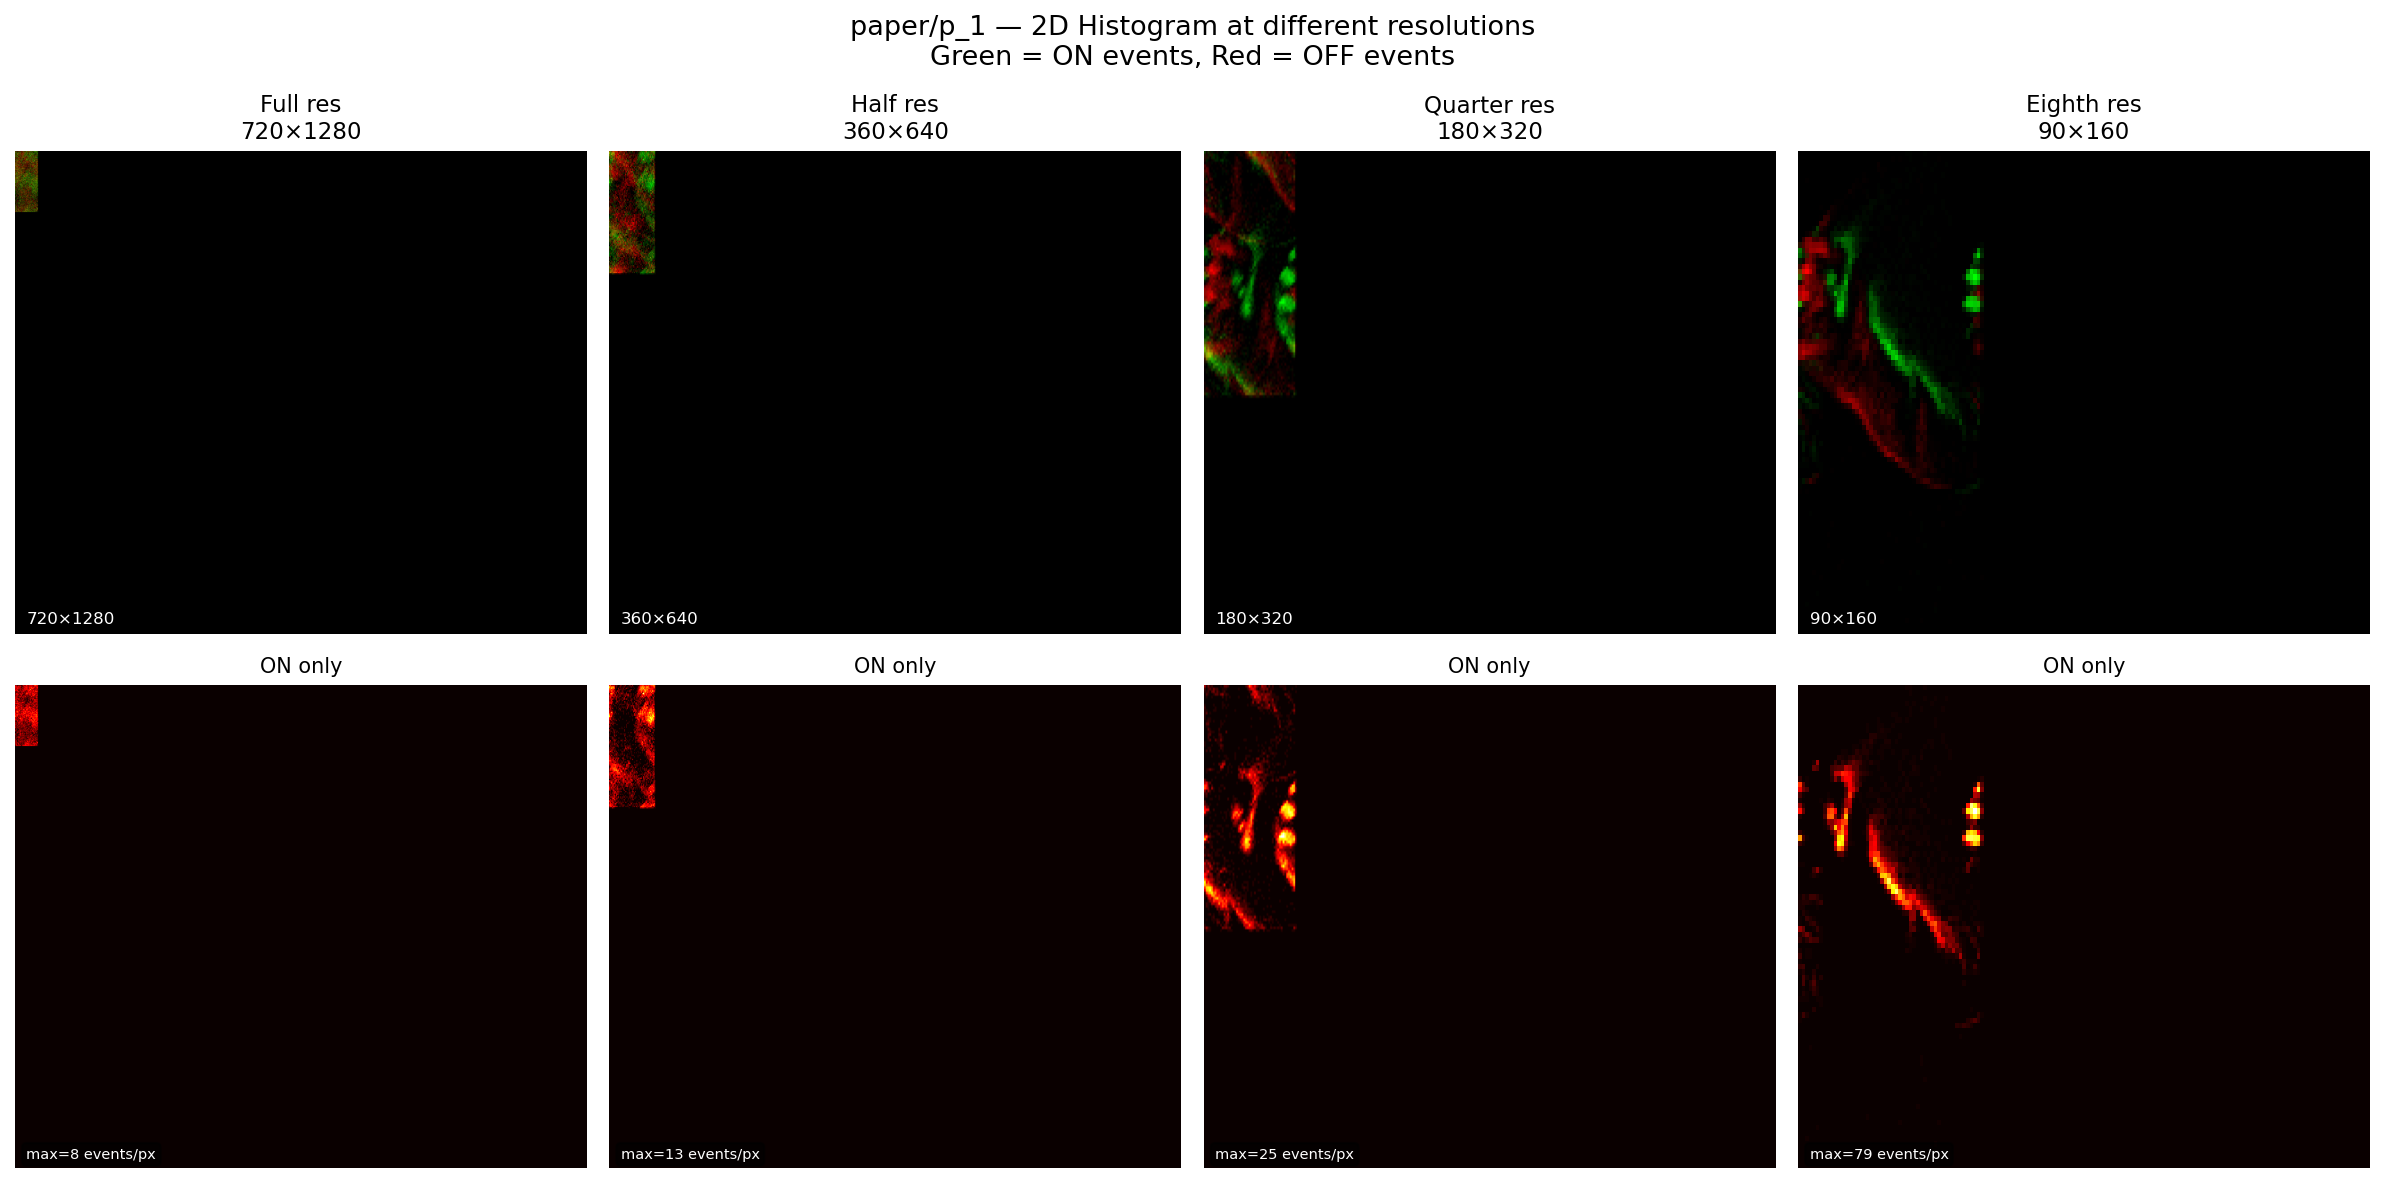
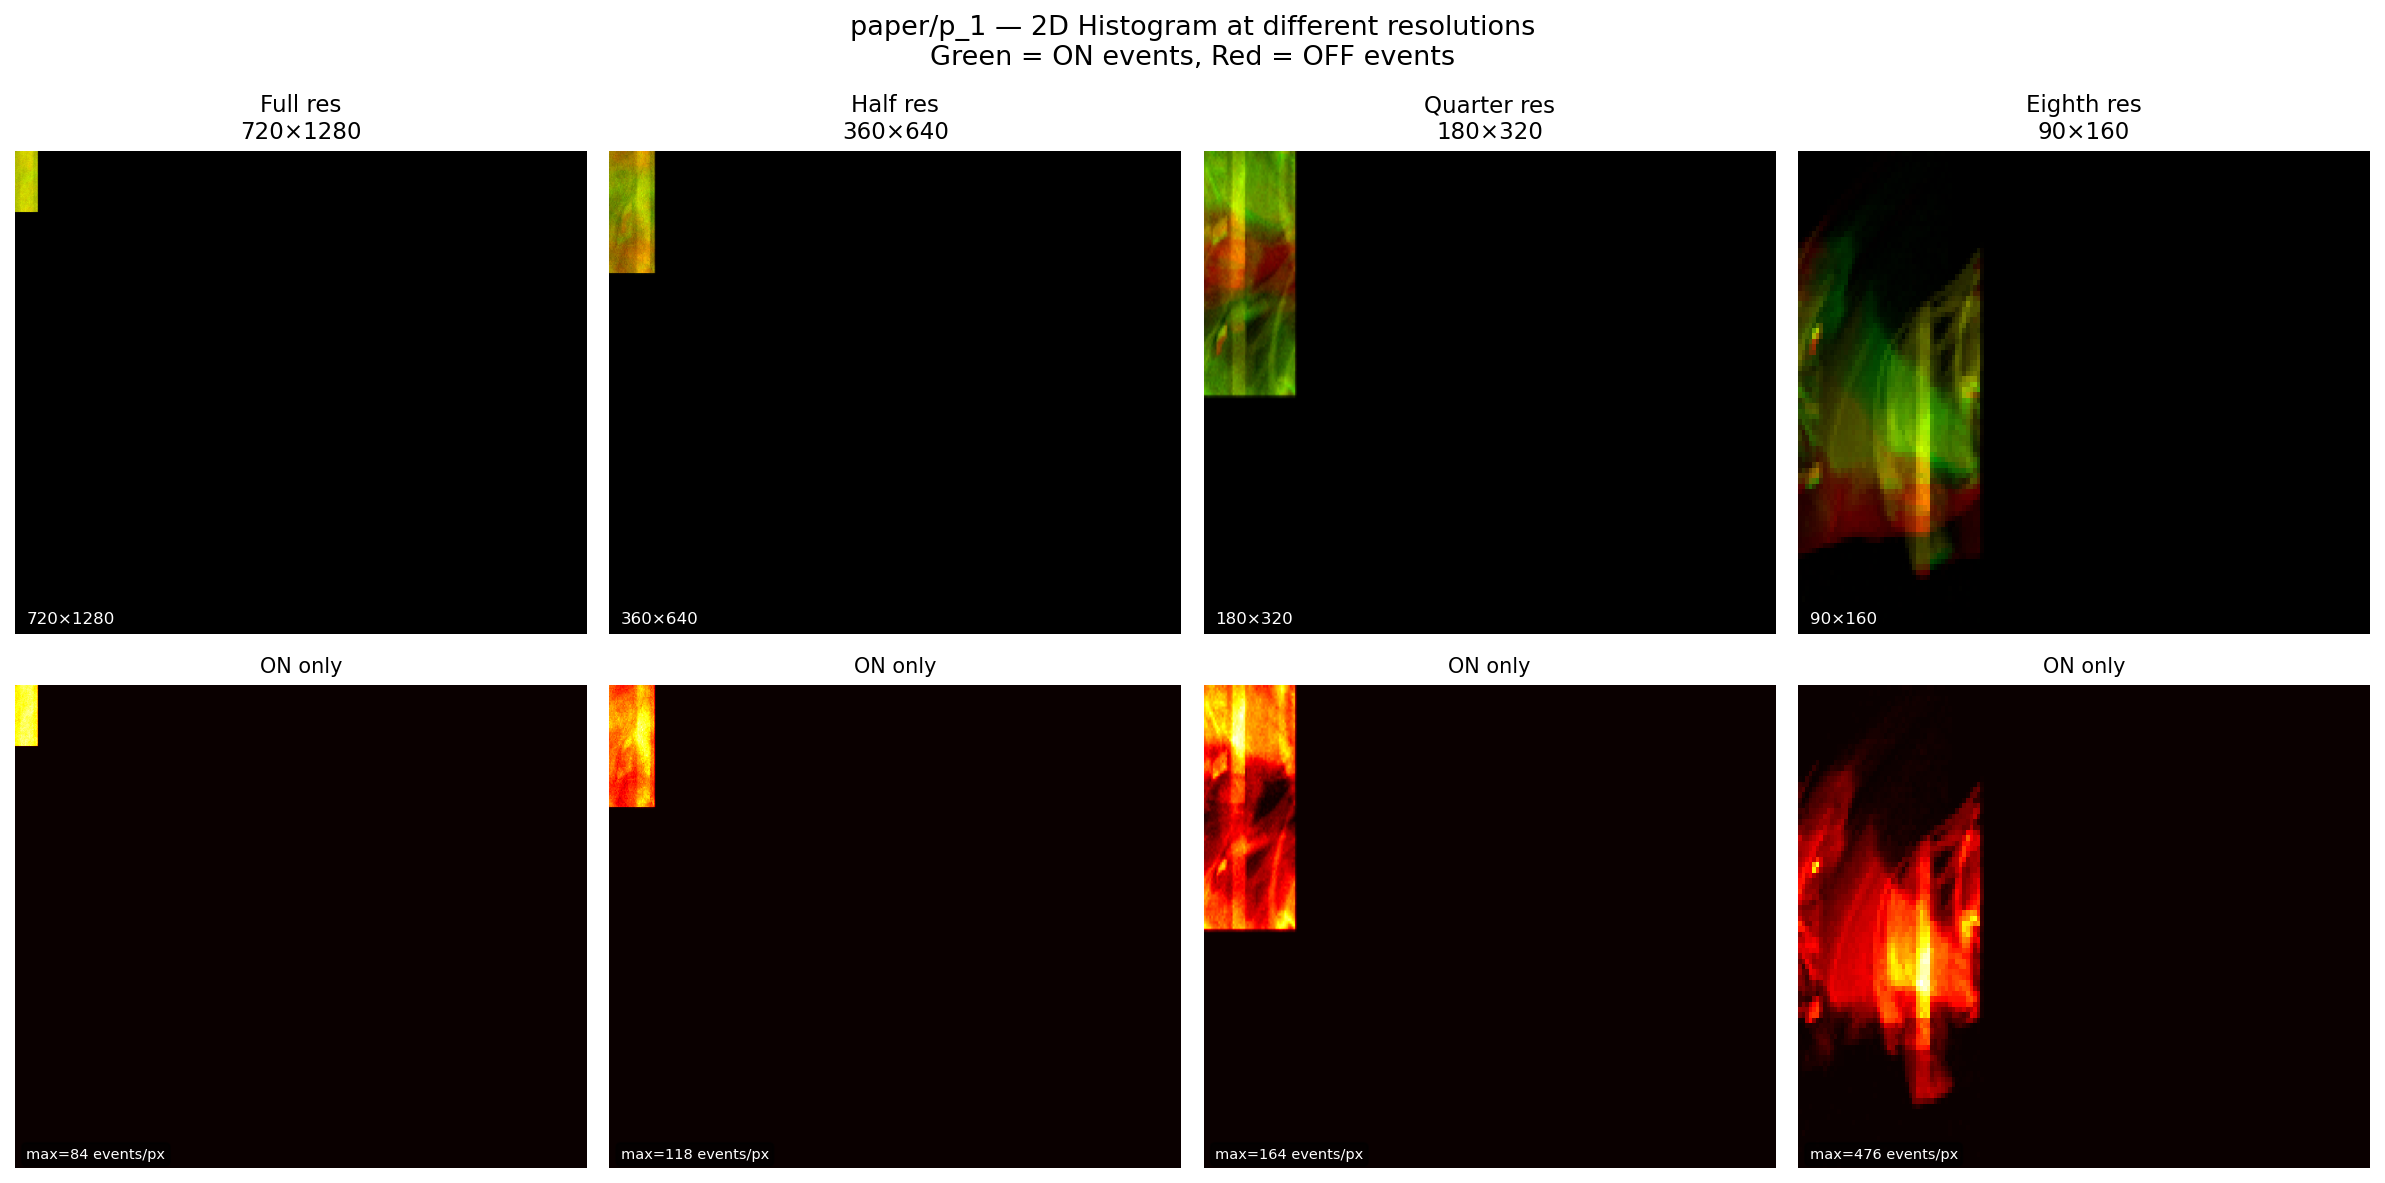
nnew

diff --git a/visual.py b/visual.py
@@ -88,7 +88,7 @@ if __name__ == "__main__":
     print(f"Events in range: {len(events):,}")
 
     # use first full window
-    window = events[:WINDOW_SIZE]
+    window = events
     print(f"Window: {len(window):,} events\n")
 
     # ── plot ──────────────────────────────────────────────────────────────────
